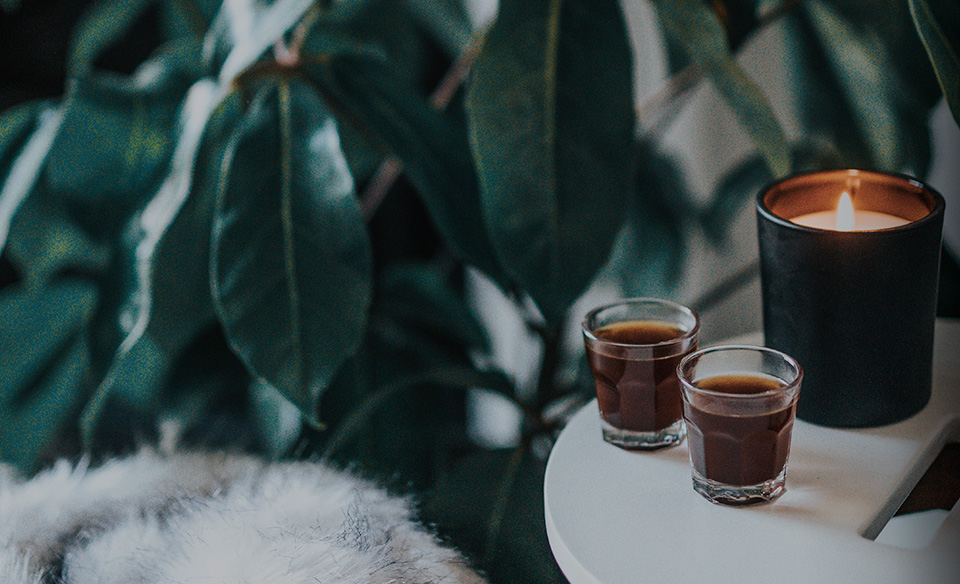
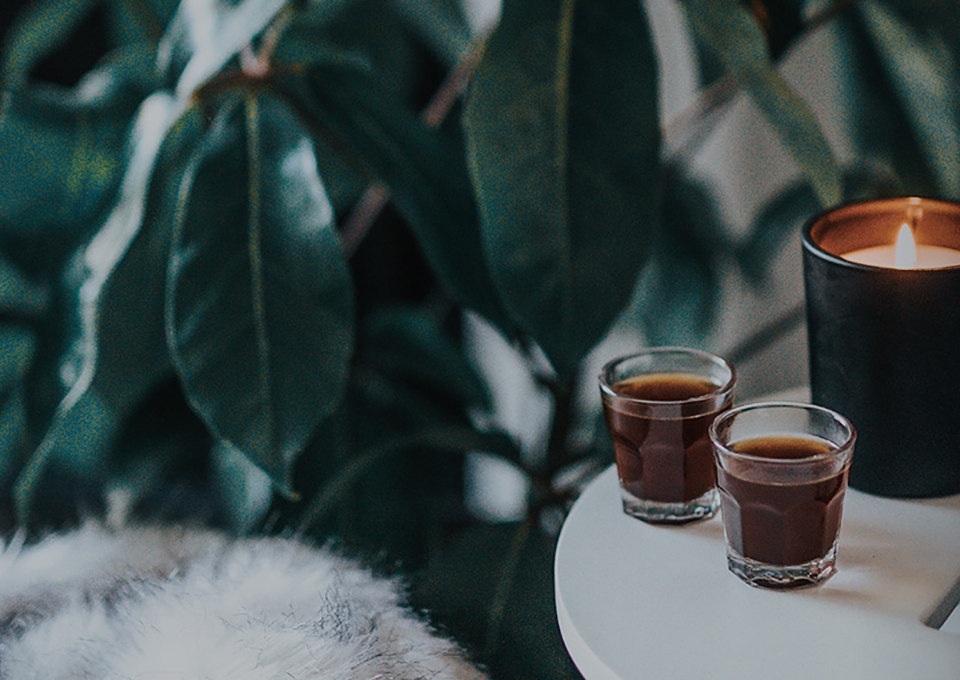
0617

diff --git a/70_pf/prugio/css/main.css b/70_pf/prugio/css/main.css
@@ -17,13 +17,13 @@
 }
 
 #section4 .left {
-    height: 584px;
     width: 50%;
+    height: 680px;
 }
 
 #section4 .right {
-    height: 584px;
     width: 50%;
+    height: 680px;
 }
 
 #section4 .btn img {
@@ -45,6 +45,22 @@
     margin-bottom: 20px;
 }
 
+#section4 .description img {
+    margin-top: 6px;
+}
+
 #section4 .description:last-child {
     width: 325px;
+}
+
+#section4 .bg {
+    overflow: hidden;
+}
+
+#section4 .bg img {
+    transition: 1s;
+}
+
+#section4 .bg:hover img{
+    transform: scale(1.1);
 }

diff --git a/70_pf/prugio/css/common.css b/70_pf/prugio/css/common.css
@@ -23,6 +23,10 @@ a {
     text-decoration: none;
 }
 
+img {
+    vertical-align: top;
+}
+
 /* 서체 */
 body {
     font: 15px/1.6 "Noto Sans KR", sans=serif;
